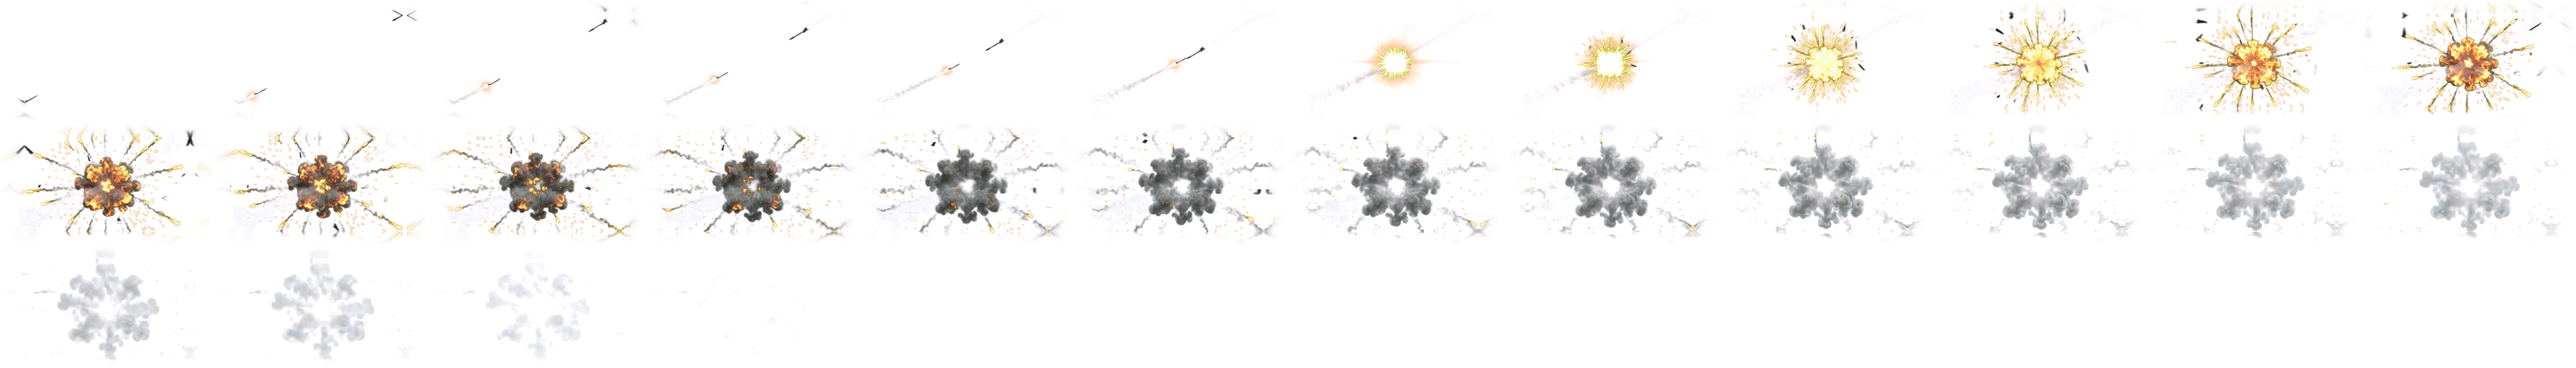
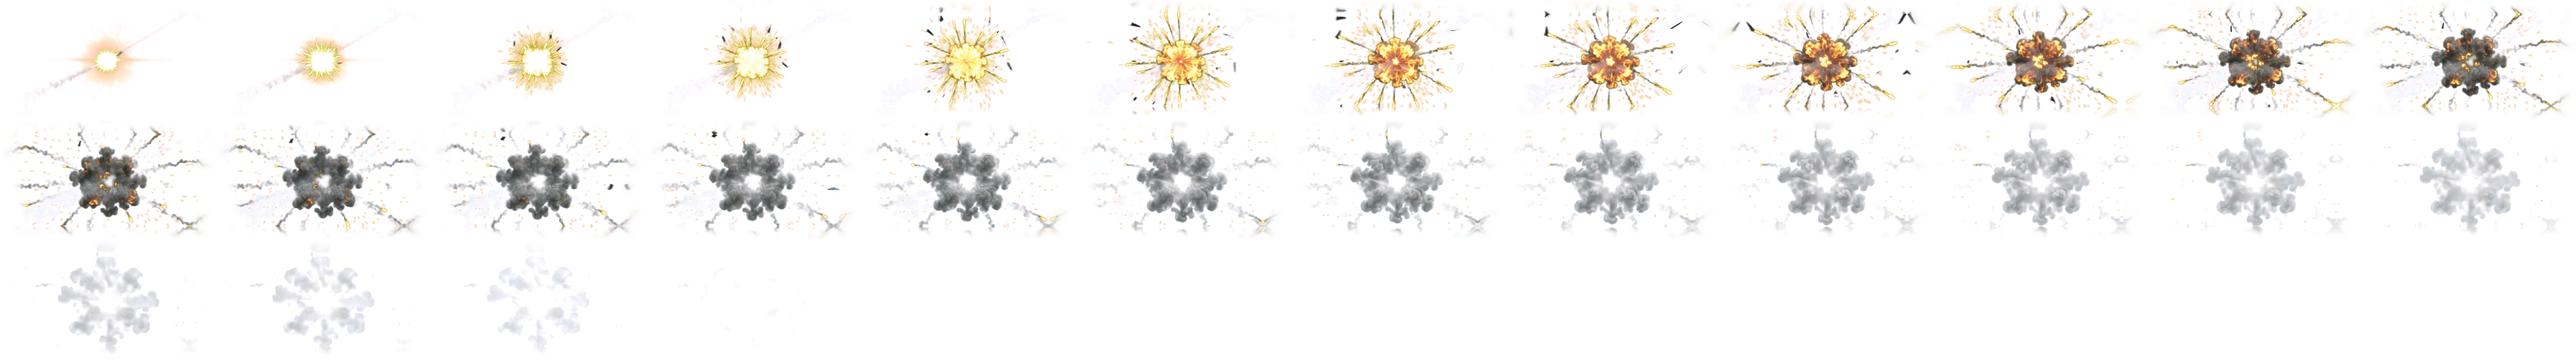
Air explosion clips start at the blast; heavy-missile clips re-cut
Missile hits on aircraft (airburst-1/2) and interceptor hits (intercept-1)
showed the jet and the missile flying in before the blast: the cut rule
took the motor's glint for the flash. A new "blast" start cuts where the
bright area passes 1% of the frame and stays there, so helicopters and
jets no longer explode with a fighter drawn inside the fireball. The
heavy-missile clips are re-cut with the shell's trail erased.

diff --git a/artsrc/fx/make_video_fx.py b/artsrc/fx/make_video_fx.py
@@ -52,7 +52,11 @@ LOOP_BLEND = 0.25
 #   bg        "black" for clips filmed on black (electric arcs): alpha from brightness
 #   start     seconds cut from the start, or "flash": cut everything before the first bright flash (a missile or
 #             shell flying in that the game draws itself)
+#   (start "blast": cut at the blast itself, for air hits that show the missile and the jet it hits flying in)
+#   lead      source frames kept before the flash with start "flash" (default 1; 0 or less when the shell is still in view)
 #   anchor    "flash" (default; first bright flash), "first", "base" (foot), "centre"
+#   erase     [(x0, y0, x1, y1, half width)] in source pixels: grey smoke along these lines is removed (the trail of a
+#             missile flying in that hangs on after the flash)
 #   strict    harder despill for clips without bright yellow/orange (dust, earth, water)
 #   frames    frames kept; size: largest output side; scale: in-game size multiplier
 #   mirror    also define <name>-m, the same sheet flipped left to right (FlipX: no extra texture memory)
@@ -65,14 +69,16 @@ CLIPS = {
     "cannon-1": {}, "cannon-2": {},
     "dirt-1": {"strict": True}, "dirt-2": {"strict": True},
     "artillery-1": {}, "artillery-2": {},
-    "heavy-missile-1": {}, "heavy-missile-2": {},
+    # both film their own missile diving in (from a fixed side, ~1.3 s before the blast): the game draws its own
+    "heavy-missile-1": {"start": "flash", "lead": 0},
+    "heavy-missile-2": {"start": "flash", "lead": -3, "erase": [(700, 400, 1060, -40, 26)]},
     "bomb-1": {}, "bomb-2": {},
     "thermobaric": {},
     "cluster-1": {"anchor": "centre"},
     "gun-strafe-1": {"anchor": "first", "mirror": True},
     # Air explosions
-    "airburst-1": {"start": "flash"}, "airburst-2": {"start": "flash"},
-    "intercept-1": {"start": "flash"},
+    "airburst-1": {"start": "blast", "lead": -1}, "airburst-2": {"start": "blast", "lead": -3},
+    "intercept-1": {"start": "blast", "lead": -1},
     "flak-1": {},
     "white-phosphorus-1": {},
     # Deaths
@@ -360,13 +366,38 @@ def centre(frames):
     return float(xs.mean()), float(ys.mean())
 
 
-def flash_start(src, bg):
-    """First source frame with a bright flash (the blast itself), one frame before it."""
+def flash_start(src, bg, lead=1):
+    """First source frame with a bright flash (the blast itself), lead frames before it."""
     for i, f in enumerate(src):
         lum = f.mean(axis=2)
         if (lum > 0.88).sum() > f.shape[0] * f.shape[1] * 0.0015:
-            return max(0, i - 1)
+            return max(0, i - lead)
     return 0
+
+
+def blast_start(src, lead=1):
+    """Where the blast itself starts: the bright area passes 1% of the frame and stays there for 5 frames (a
+    missile's motor glint or a glint on the jet it hits is smaller, or gone again at once). lead frames before it."""
+    share = [(f.mean(axis=2) > 0.88).mean() for f in src]
+    for i in range(len(share) - 5):
+        if all(v > 0.01 for v in share[i:i + 5]):
+            return max(0, i - lead)
+    return 0
+
+
+def erase_band(shape, lines):
+    """0-1 weight of the pixels near any of the erase lines (soft edge), or None."""
+    if not lines:
+        return None
+    h, w = shape
+    ys, xs = np.mgrid[0:h, 0:w].astype(np.float32)
+    band = np.zeros((h, w), np.float32)
+    for x0, y0, x1, y1, half in lines:
+        dx, dy = x1 - x0, y1 - y0
+        t = np.clip(((xs - x0) * dx + (ys - y0) * dy) / float(dx * dx + dy * dy), 0, 1)
+        d = np.hypot(xs - (x0 + t * dx), ys - (y0 + t * dy))
+        band = np.maximum(band, np.clip((half * 1.5 - d) / (half * 0.5), 0, 1))
+    return band
 
 
 def loop_blend(frames):
@@ -399,7 +430,12 @@ def prepare(name, opts, sides=None):
         parts.append(len(more) - 1)
     bg = background(src, black)
     start = opts.get("start", 0)
-    cut0 = flash_start(src, bg) if start == "flash" else int(round(start * fps))
+    if start == "flash":
+        cut0 = flash_start(src, bg, opts.get("lead", 1))
+    elif start == "blast":
+        cut0 = blast_start(src, opts.get("lead", 1))
+    else:
+        cut0 = int(round(start * fps))
     src = src[cut0:]
     parts[0] -= cut0
     if sides is None:
@@ -425,10 +461,14 @@ def prepare(name, opts, sides=None):
     short = min(src.shape[1:3])
     ramp = edge_ramp(*src.shape[1:3], EDGE * short / 360, sides)
     ext = Extender(src.shape[1:3], sides, seed=sum(map(ord, name))) if sides else None
+    band = erase_band(src.shape[1:3], opts.get("erase", []))
     out = []
     for i, j in enumerate(picks):
         f = key_black(src[j]) if black else key(src[j], bg, opts.get("strict", False))
         f[..., 3] *= ramp
+        if band is not None:
+            grey = np.clip(1 - (f[..., :3].max(axis=2) - f[..., :3].min(axis=2)) / 0.15, 0, 1)
+            f[..., 3] *= 1 - band * grey * (f[..., :3].max(axis=2) < 0.8)
         if ext:
             f = ext(f, i)
         out.append(f)
